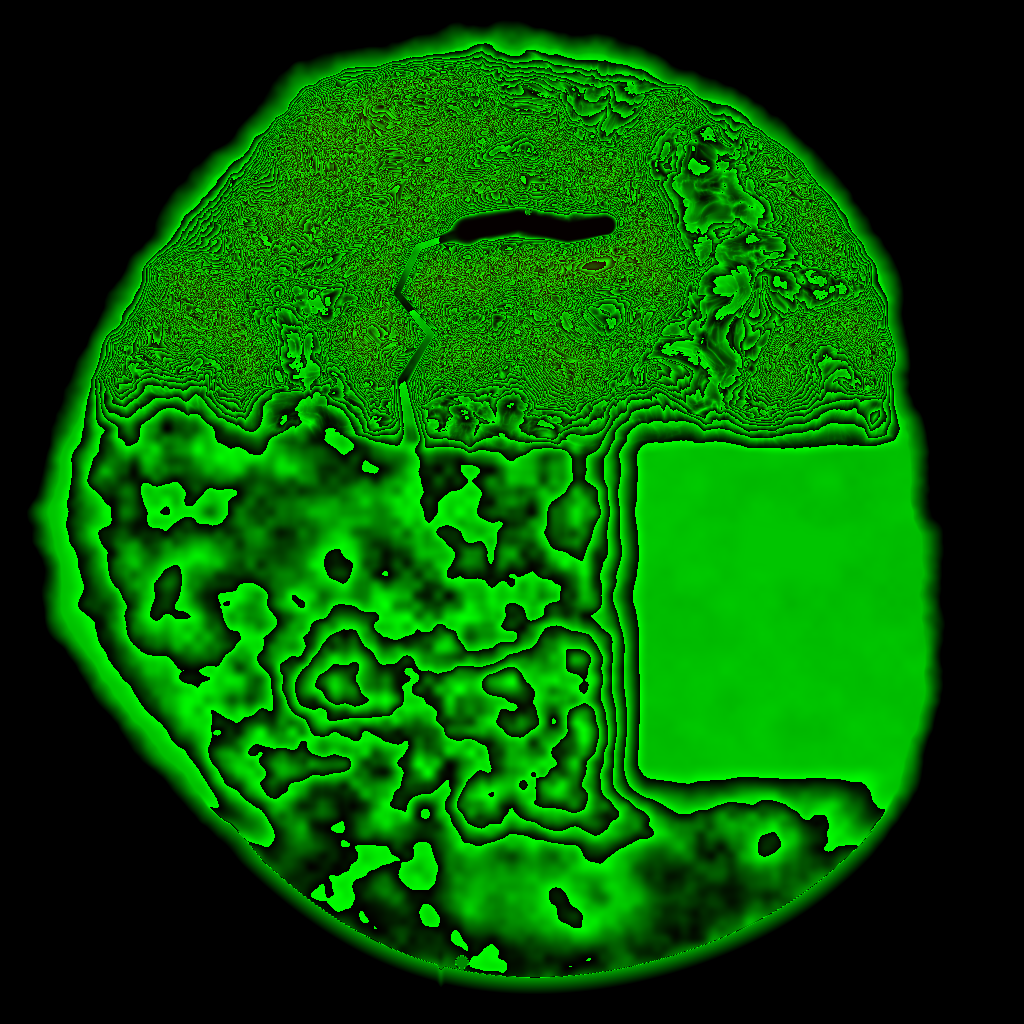
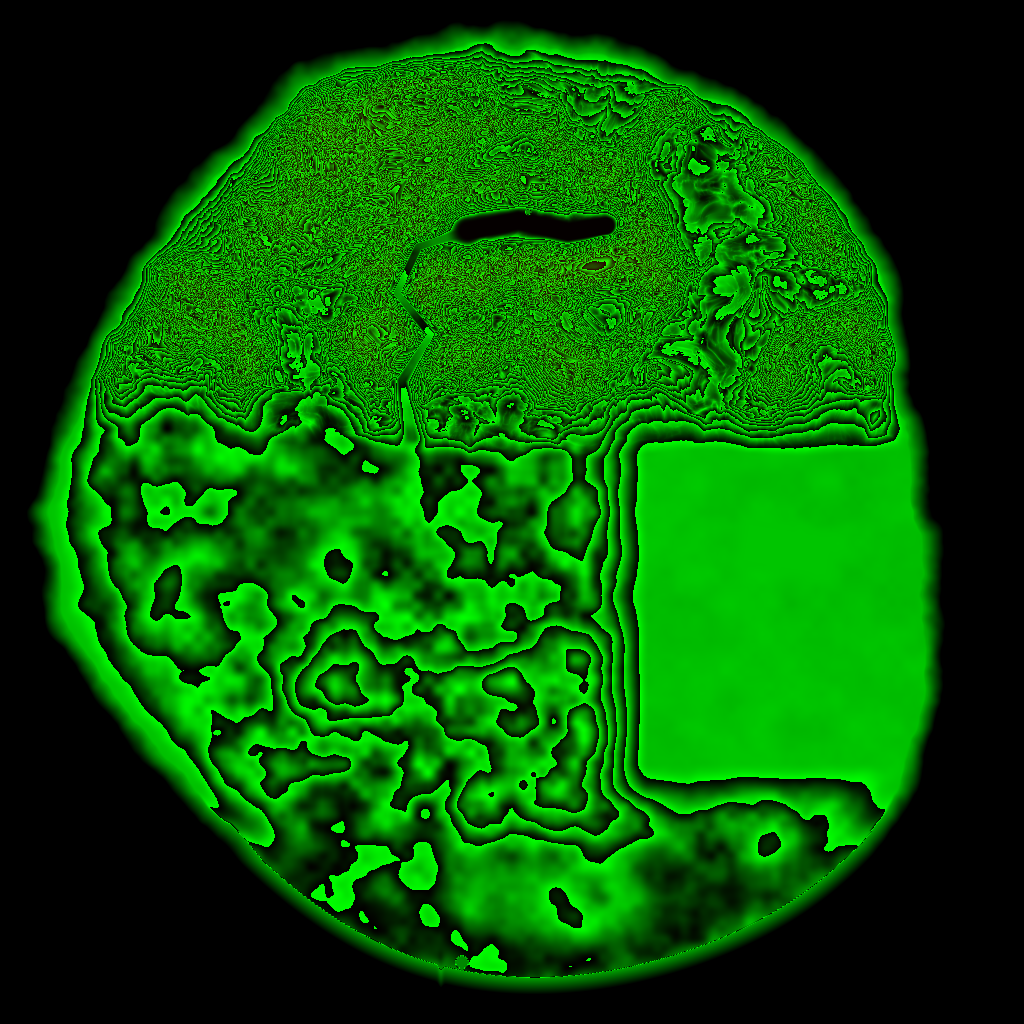
Island: the loch's shores hold it in
The glen now leaves the loch over a lip of ground above the water, the
loch's box is worked out from its path, and a test walks the box's edge.

Claude-Session: https://claude.ai/code/session_01YZtgbdpC85BipirPAJzuos

Changed region(s): [[0.375, 0.2188, 0.4688, 0.4062]]

diff --git a/tests/island.test.js b/tests/island.test.js
@@ -63,6 +63,13 @@ test('island: the loch is level, and the castle stands on dry rock above it', ()
     if (level !== null) { wet++; assert.equal(level, loch.level); }
   }
   assert.ok(wet > 300, `the loch covers ${wet} hectares`);
+  // Its shores hold it in: all round the edge of its box the ground is above the water.
+  for (let t = 0; t <= 1; t += 0.002) {
+    const n = loch.south + t * (loch.north - loch.south), e = loch.west + t * (loch.east - loch.west);
+    for (const [pn, pe] of [[n, loch.west], [n, loch.east], [loch.south, e], [loch.north, e]]) {
+      assert.ok(island.heightAt(pn, pe) >= loch.level, `the loch spills at ${pn}, ${pe}: ground ${island.heightAt(pn, pe)} m`);
+    }
+  }
   assert.equal(island.waterAt(castle.north, castle.east), null);
   assert.ok(Math.abs(island.heightAt(castle.north, castle.east) - castle.height) < 2);
   assert.ok(castle.height > loch.level + 50);
